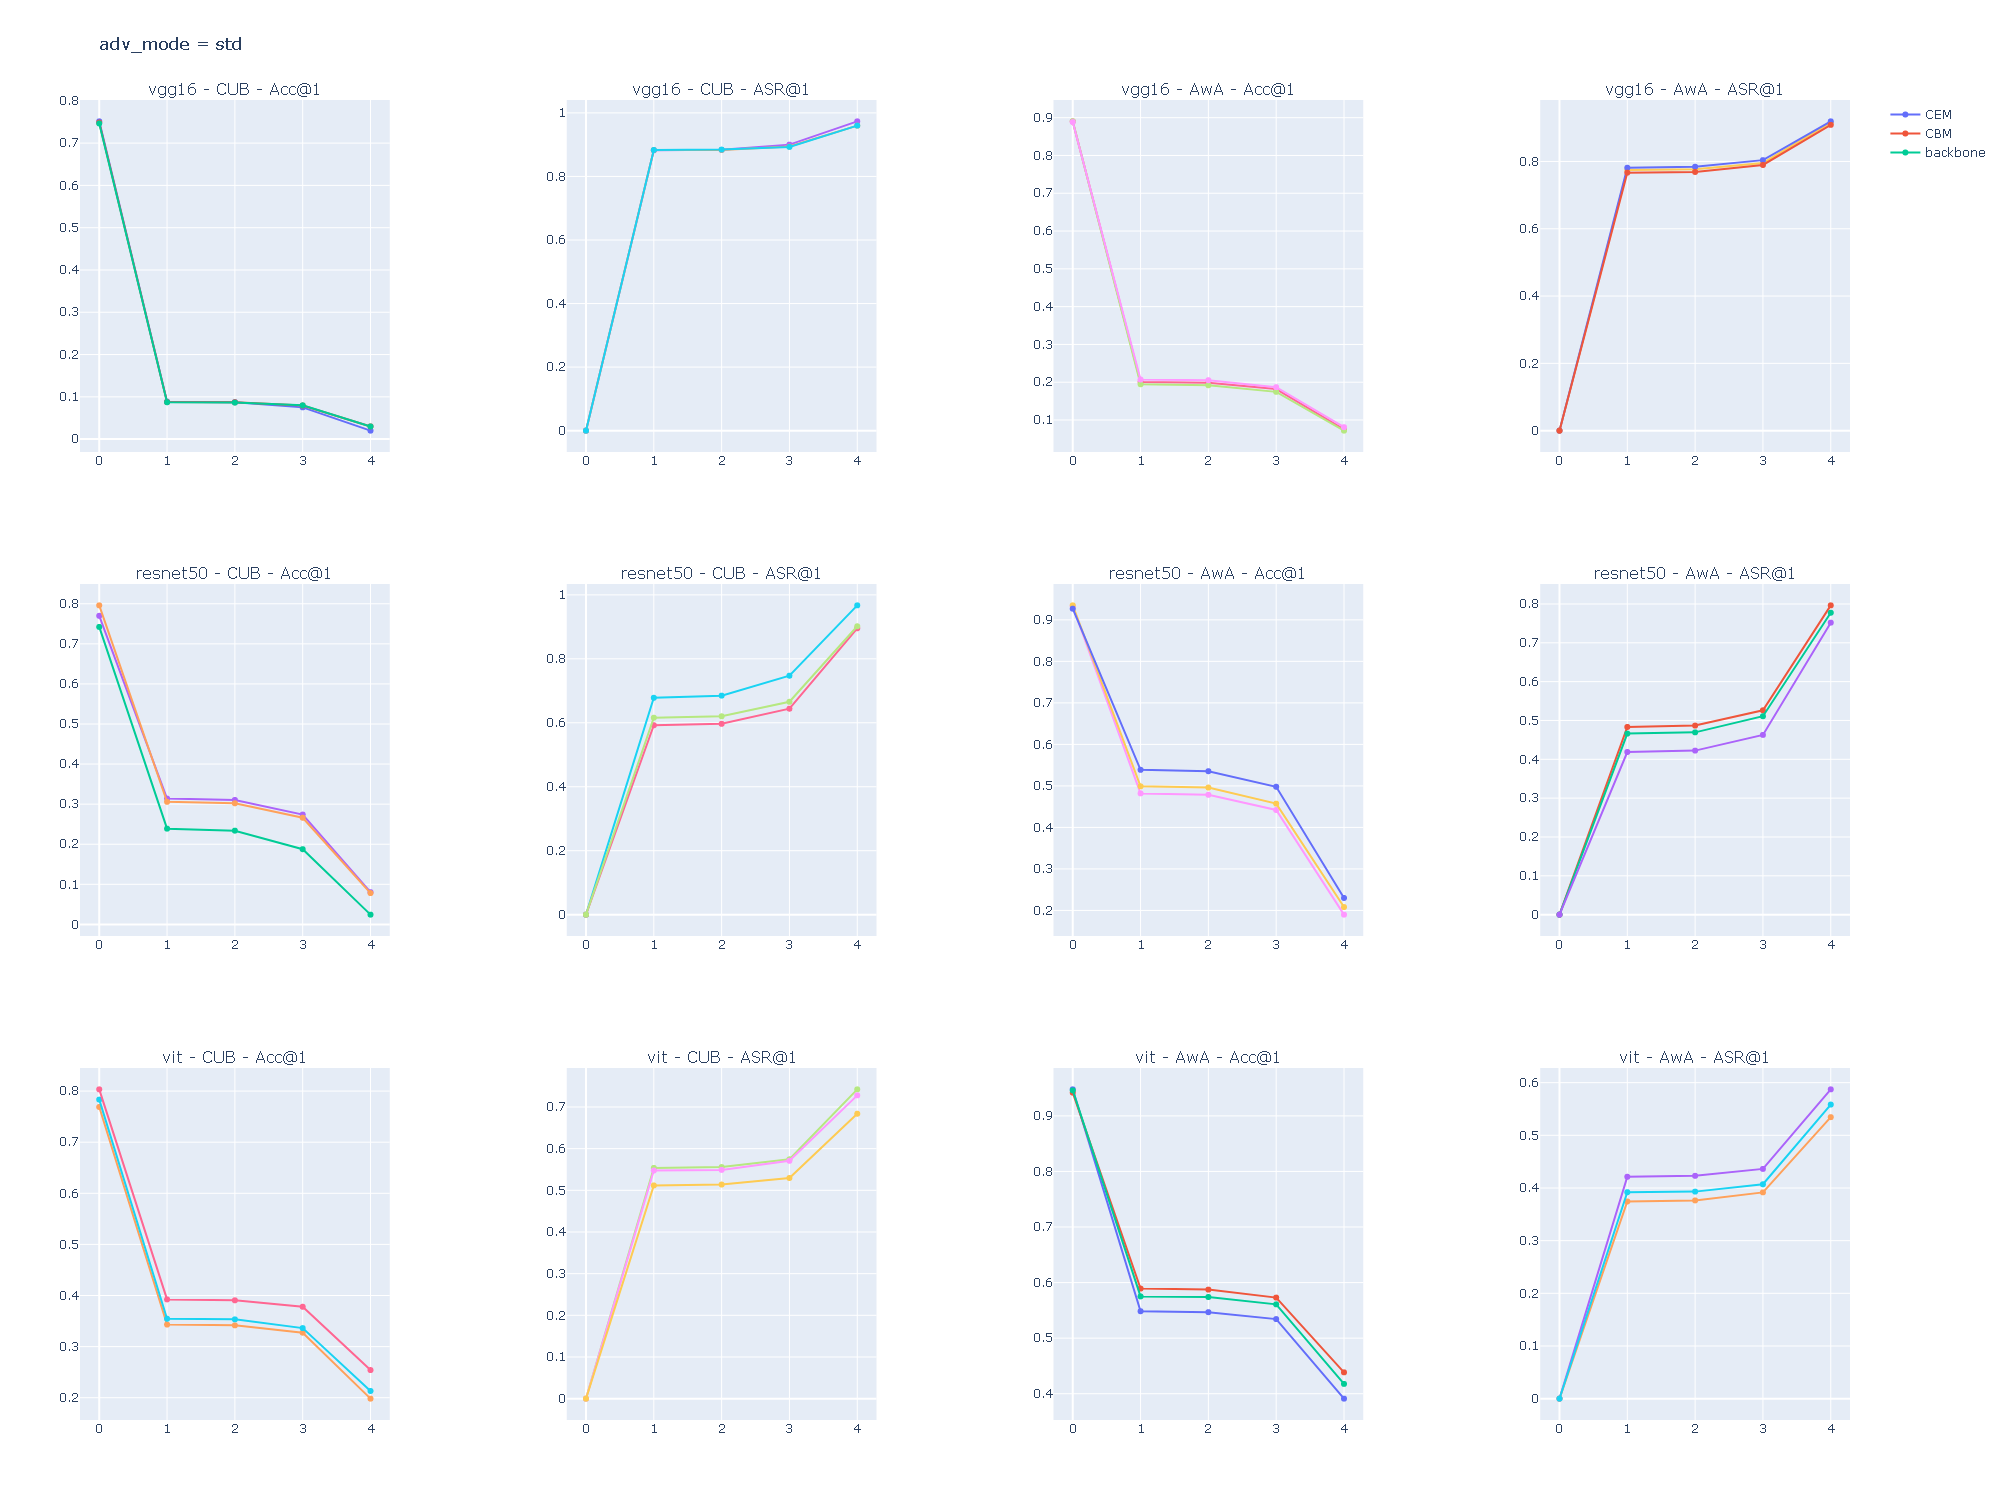
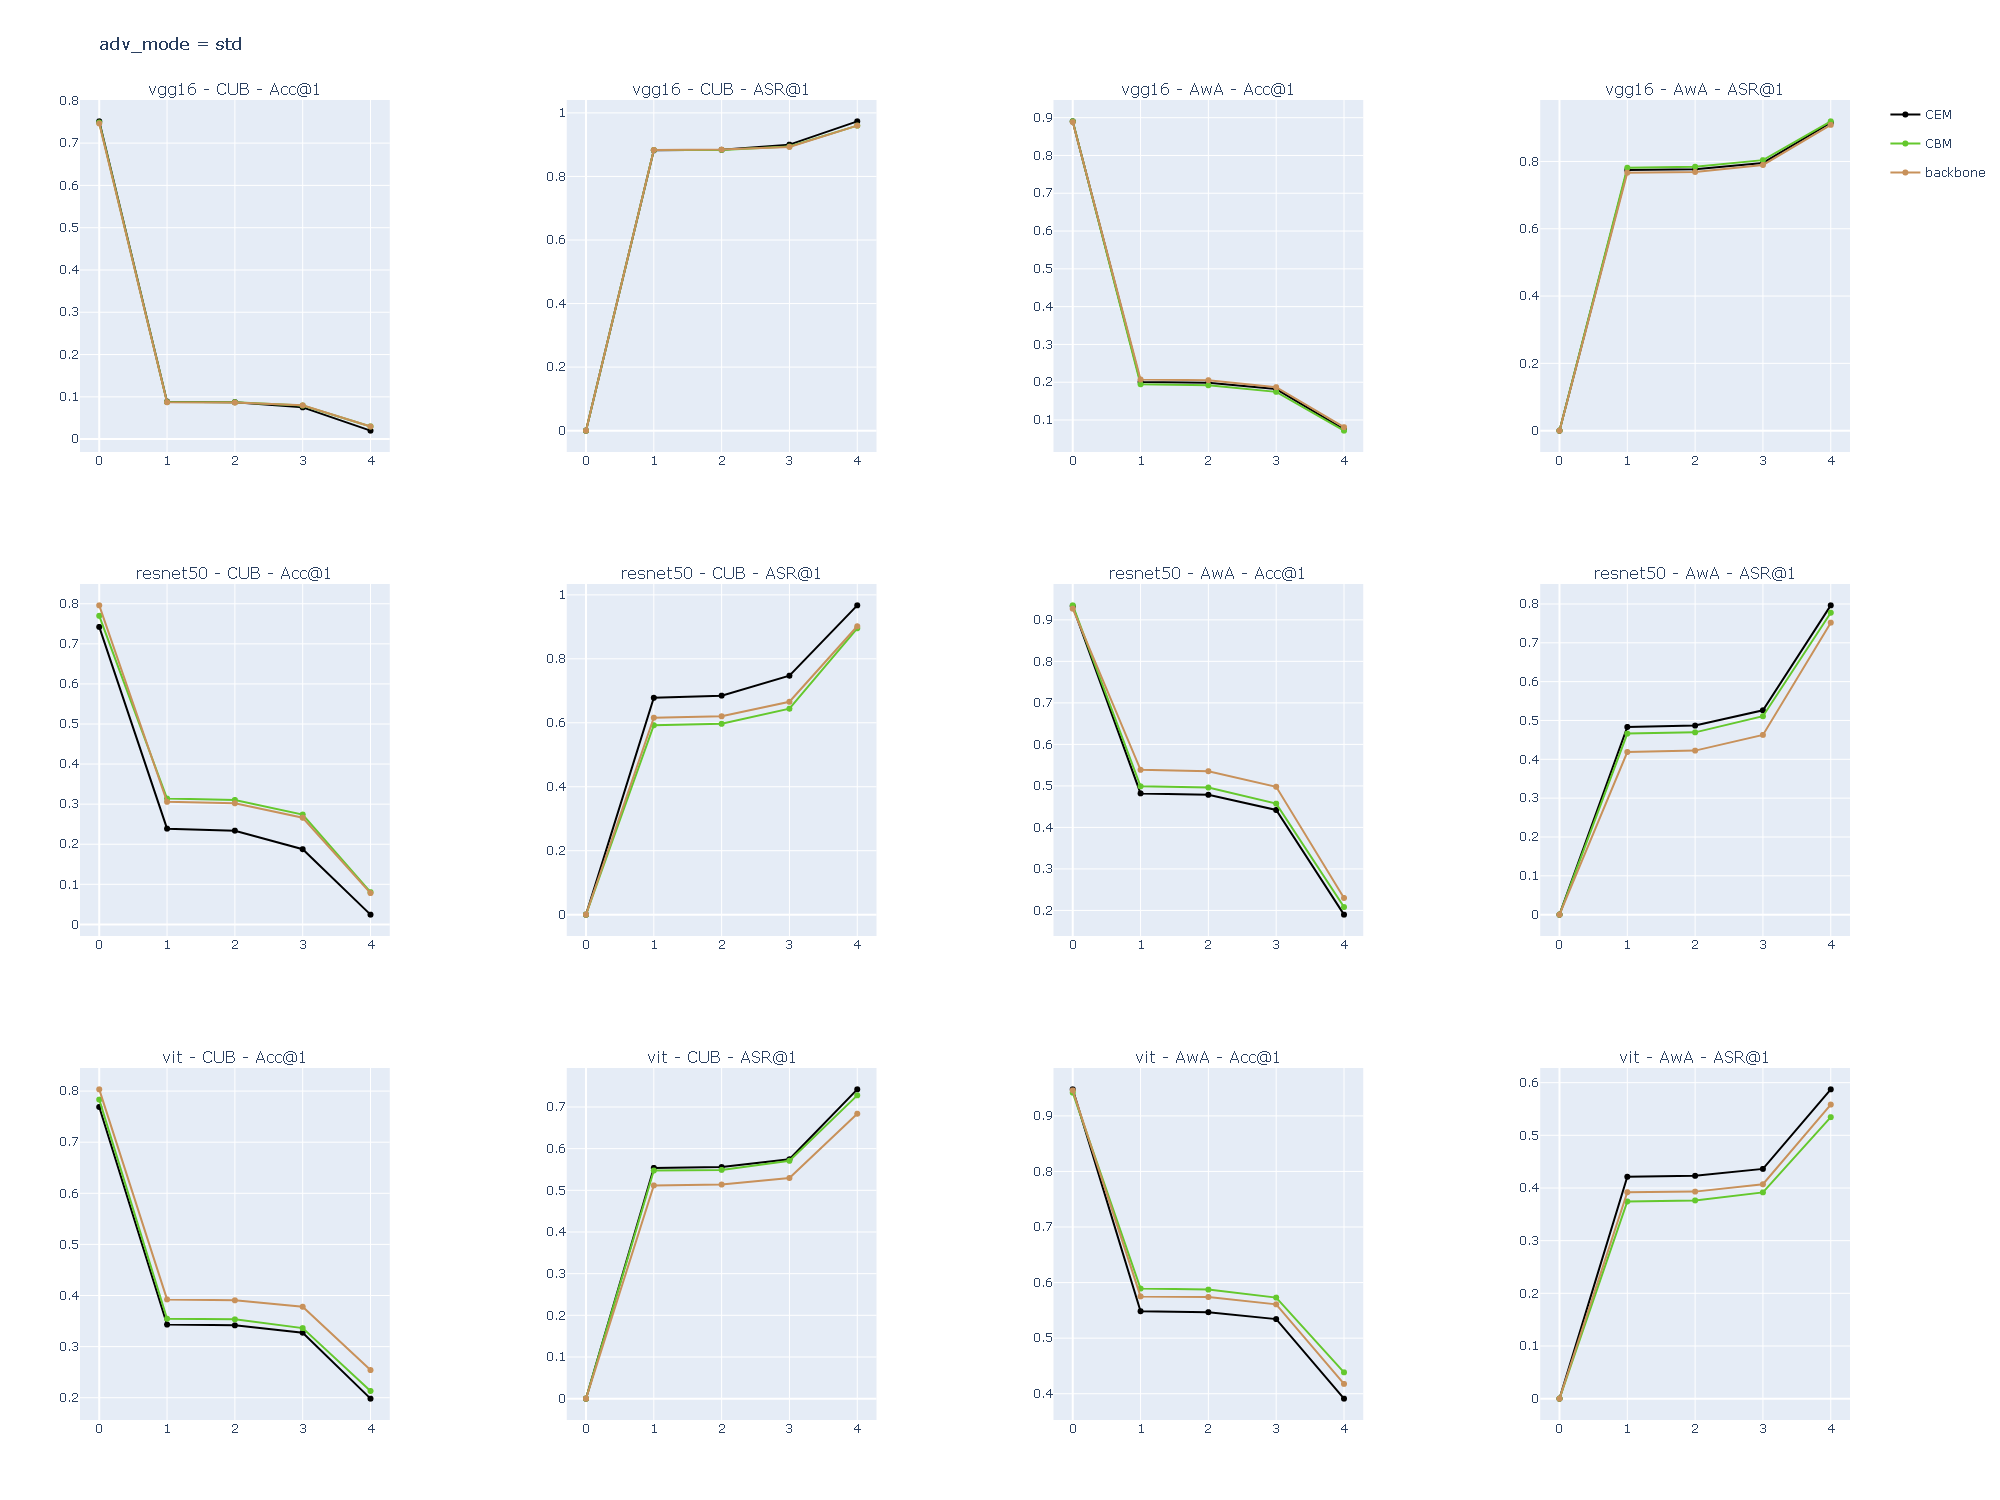
add color

diff --git a/draw.py b/draw.py
@@ -25,6 +25,7 @@ def plot_by_mode(source, adv_mode, output_folder="figs"):
         horizontal_spacing=0.1,
     )
 
+    model_colors = {}
     legends = set()
     for i, base in enumerate(base_models):
         for j, (dataset, metric) in enumerate(datasets_metrics):
@@ -33,8 +34,14 @@ def plot_by_mode(source, adv_mode, output_folder="figs"):
                 (source['base'] == base)
                 ]
             subset = subset.dropna(subset=[metric])
+
             for run in subset['model'].unique():
                 data = subset[subset['model'] == run].iloc[0]
+                if run not in model_colors:
+                    model_colors[run] = \
+                        f'rgb({(len(model_colors) * 100) % 255}, {(len(model_colors) * 200) % 255}, {(len(model_colors) * 300) % 255})'
+                color = model_colors[run]
+
                 if run not in legends:
                     legends.add(run)
                     showlegend = True
@@ -46,6 +53,8 @@ def plot_by_mode(source, adv_mode, output_folder="figs"):
                         y=data[metric],
                         mode='lines+markers',
                         name=run,
+                        legendgroup=run,
+                        marker=dict(color=color),
                         showlegend=showlegend
                     ),
                     row=i + 1,
